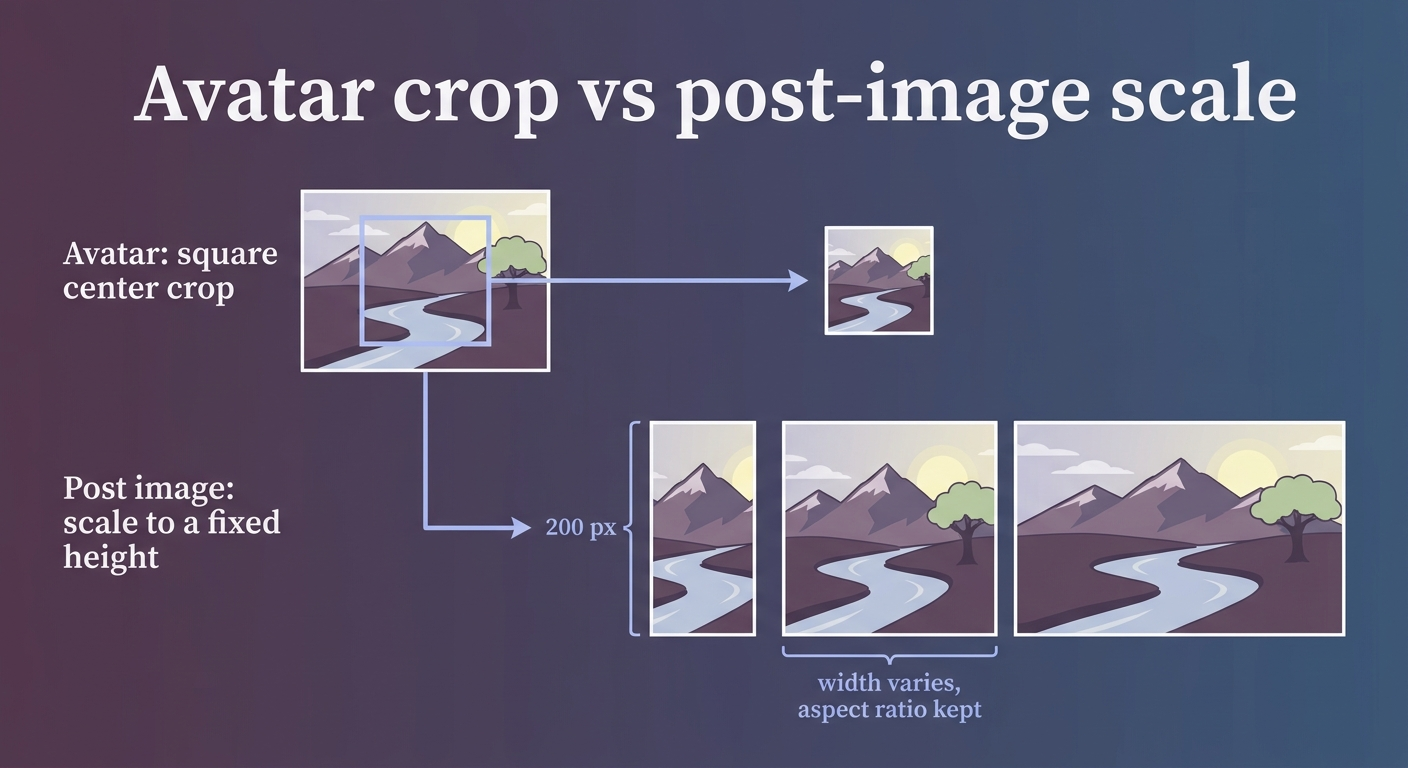
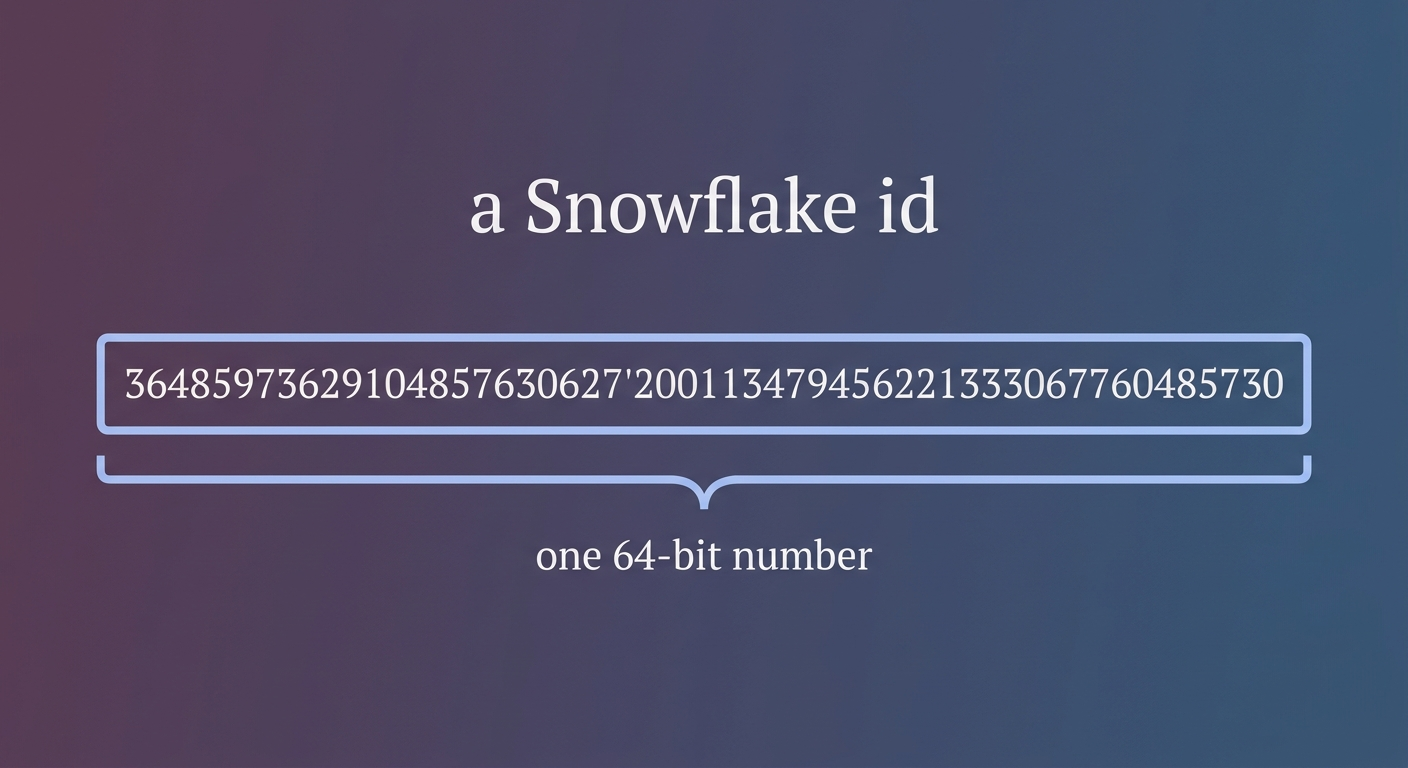
Sync manuscript from main

Changed region(s): [[0.0312, 0.2188, 0.9688, 0.9375], [0.0938, 0.0625, 0.9375, 0.1875]]

diff --git a/manuscript/5_QuartFeed_PostgreSQL_DB_FriendFeed_Clone.md b/manuscript/5_QuartFeed_PostgreSQL_DB_FriendFeed_Clone.md
@@ -2163,8 +2163,6 @@ Two templates left, and before we write either one, notice what they have in com
 
 A partial is just a template with no page around it, meant to be included. The leading underscore is a convention, not a rule: it tells the next person that this file is a fragment and never a page in its own right. It draws the message, then any images at their natural width and a fixed two-hundred-pixel height, then the timestamp. That last `if` is the only thing the two pages disagree about. In a feed the timestamp is the link to the post's permalink, and on the permalink page there is nowhere to go, because you are already there, so it renders as plain text. One card, one place to change it, and the difference is spelled out where you can see it.
 
-![One card partial, included by both pages: change it once and the feed and the permalink stay in step.](images/5.8-scene14-img1.png)
-
 Now the permalink page itself is almost nothing. Create `templates/post/detail.html`:
 
 {lang=html,line-numbers=on}
